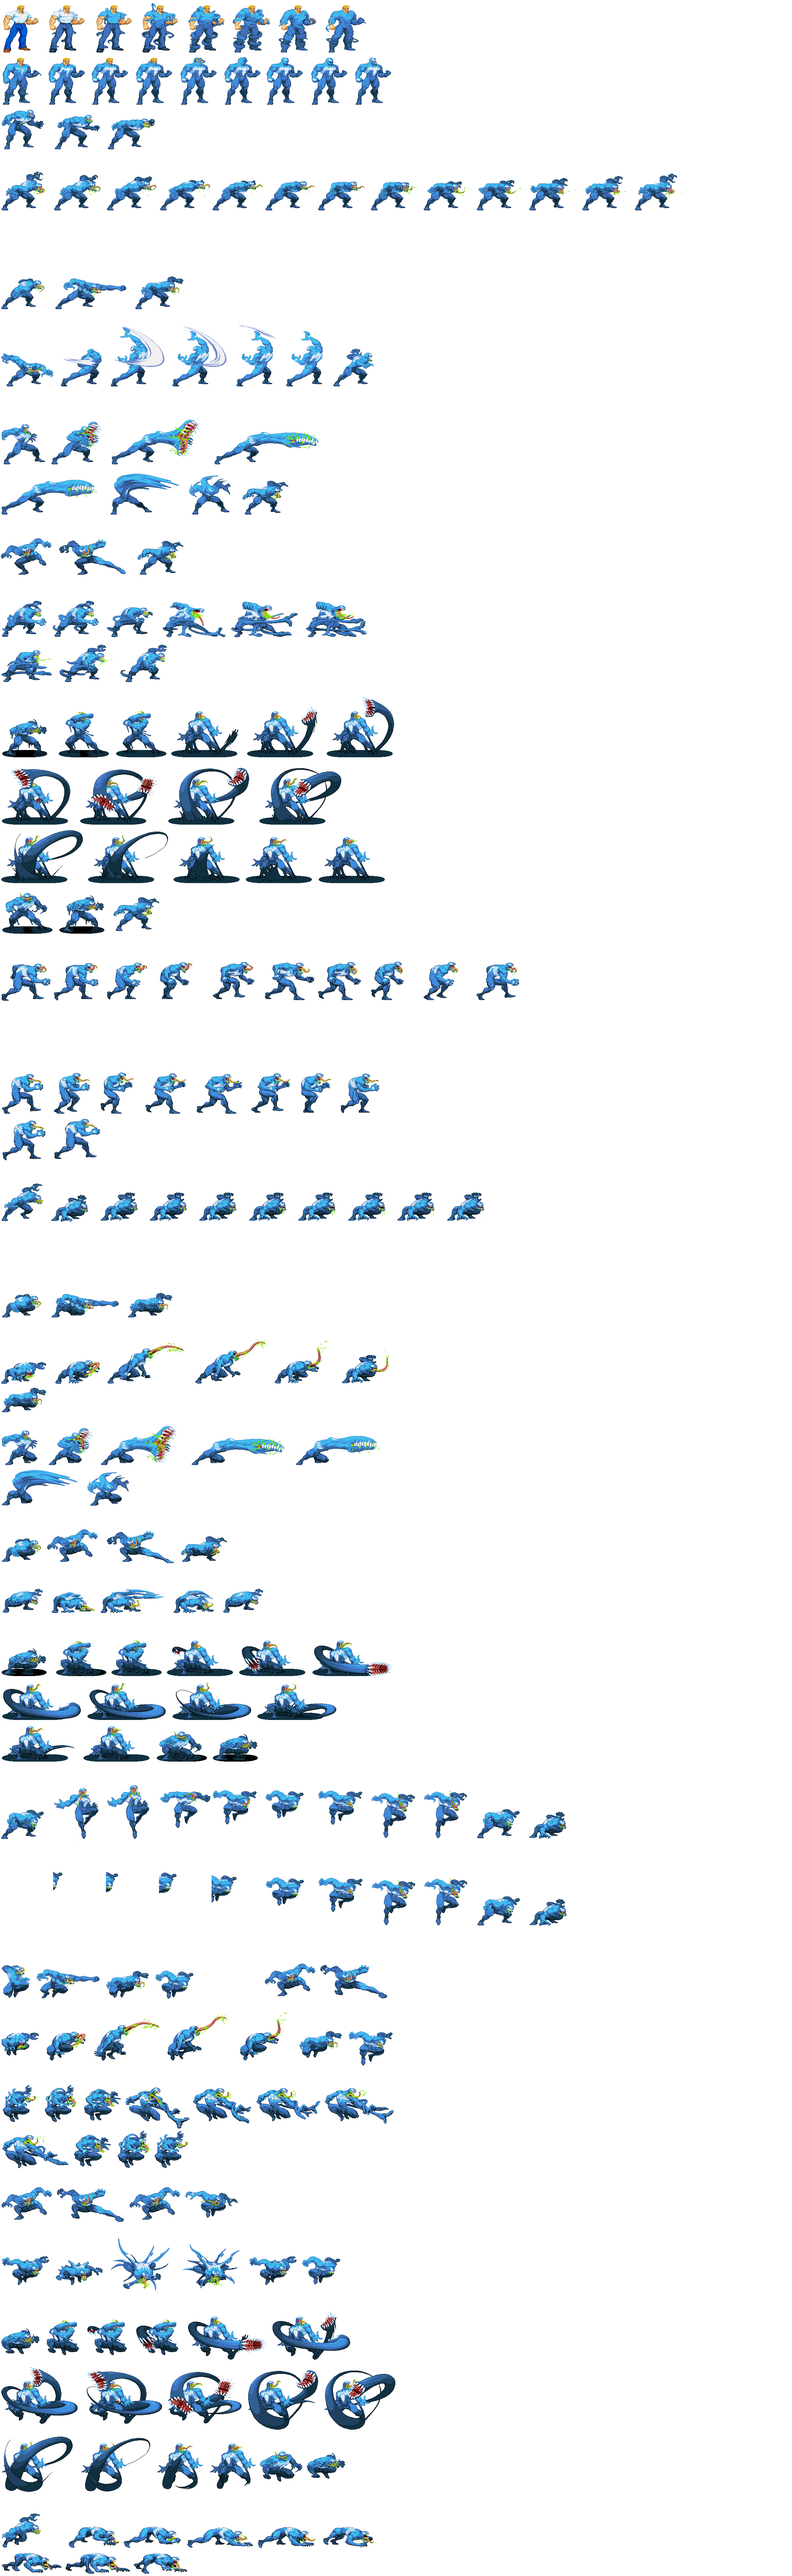
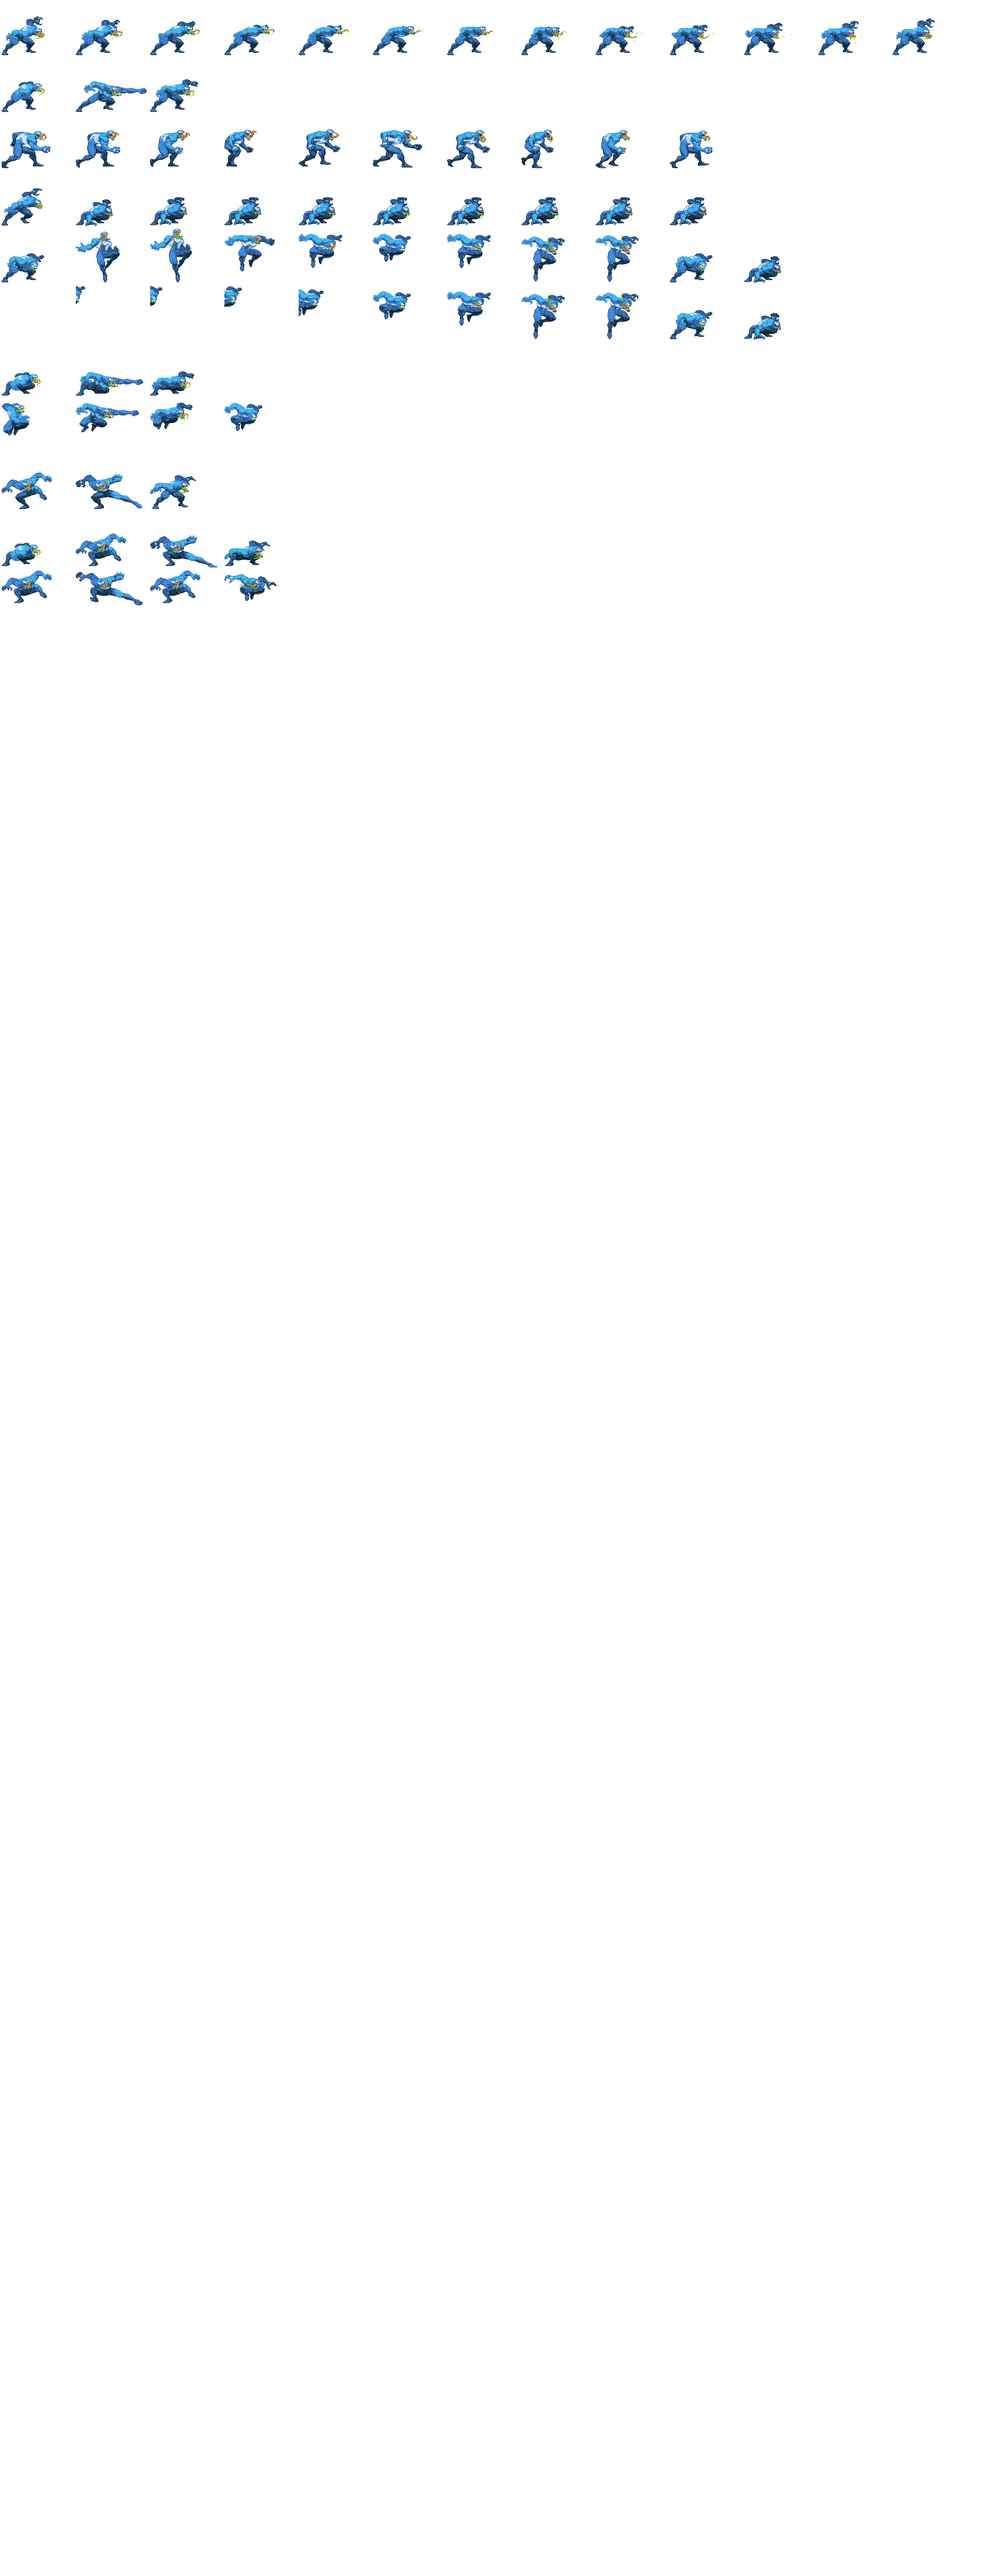
golpes
mejores el sprite de venom, tarde mucho!!
las teclas de golpes son jugador 1:j,k,l,i
jugador 2: z,x,c,s

diff --git a/source/view/SpriteAnimado.cpp b/source/view/SpriteAnimado.cpp
@@ -35,6 +35,18 @@ void SpriteAnimado::cargarAnimaciones(string nombre){
 		Animacion *salto = new Animacion("salto",8,0,590,125,140,7);
 		Animacion *agacharse = new Animacion("agacharse",3,0,740,100,105,4);
 		Animacion *cambioEntrada = new Animacion("cambioEntrada",7,125,420,125,158,2);
+		Animacion *golpeS=new Animacion("golpeS",3,0,740,100,105,4);//golpe simple
+		Animacion *patadaS=new Animacion("patadaS",3,0,740,100,105,4);//patada simple
+		Animacion *golpeAS=new Animacion("golpeAS",3,0,740,100,105,4);//golpe agachado simple
+		Animacion *patadaAS=new Animacion("patadaAS",3,0,740,100,105,4);//patada agachado simple
+		Animacion *golpeSS=new Animacion("golpeSS",3,0,740,100,105,4);//golpe saltando simple
+		Animacion *patadaSS=new Animacion("patadaSS",3,0,740,100,105,4);//patada saltando simple
+		animaciones.push_back(golpeS);
+		animaciones.push_back(patadaS);
+		animaciones.push_back(golpeAS);
+		animaciones.push_back(patadaAS);
+		animaciones.push_back(golpeSS);
+		animaciones.push_back(patadaSS);
 		animaciones.push_back(quieto);
 		animaciones.push_back(moverDerecha);
 		animaciones.push_back(moverIzquierda);
@@ -50,6 +62,18 @@ void SpriteAnimado::cargarAnimaciones(string nombre){
 		Animacion *salto = new Animacion("salto",14,0,473,100,135,3);
 		Animacion *agacharse = new Animacion("agacharse",13,0,1180,110,90,4);
 		Animacion *cambioEntrada = new Animacion("cambioEntrada",14,0,227,110,133,2);
+		Animacion *golpeS=new Animacion("golpeS",13,0,1180,110,90,4);//golpe simple
+		Animacion *patadaS=new Animacion("patadaS",13,0,1180,110,90,4);//patada simple
+		Animacion *golpeAS=new Animacion("golpeAS",13,0,1180,110,90,4);//golpe agachado simple
+		Animacion *patadaAS=new Animacion("patadaAS",13,0,1180,110,90,4);//patada agachado simple
+		Animacion *golpeSS=new Animacion("golpeSS",13,0,1180,110,90,4);//golpe saltando simple
+		Animacion *patadaSS=new Animacion("patadaSS",13,0,1180,110,90,4);//patada saltando simple
+		animaciones.push_back(golpeS);
+		animaciones.push_back(patadaS);
+		animaciones.push_back(golpeAS);
+		animaciones.push_back(patadaAS);
+		animaciones.push_back(golpeSS);
+		animaciones.push_back(patadaSS);
 		animaciones.push_back(quieto);
 		animaciones.push_back(moverDerecha);
 		animaciones.push_back(moverIzquierda);
@@ -60,12 +84,24 @@ void SpriteAnimado::cargarAnimaciones(string nombre){
 		return;
 	}
 	else if(nombre=="Venom" ){
-		Animacion *quieto = new Animacion("quieto",13,0,519,160,123,5);
-		Animacion *moverDerecha = new Animacion("movDerecha",10,0,2905,160,130,4);
-		Animacion *moverIzquierda = new Animacion("movIzquierda",10,0,2905,160,130,4);
-		Animacion *salto = new Animacion("salto",11,0,5408,160,172,6);
-		Animacion *agacharse = new Animacion("agacharse",10,0,3580,150,125,2);
-		Animacion *cambioEntrada = new Animacion("cambioEntrada",11,0,5668,160,162,2);
+		Animacion *quieto = new Animacion("quieto",13,0,0,225,172,5);
+		Animacion *moverDerecha = new Animacion("movDerecha",10,0,344,225,172,4);
+		Animacion *moverIzquierda = new Animacion("movIzquierda",10,0,344,225,172,4);
+		Animacion *salto = new Animacion("salto",11,0,688,225,172,6);
+		Animacion *agacharse = new Animacion("agacharse",10,0,516,225,172,2);
+		Animacion *cambioEntrada = new Animacion("cambioEntrada",11,0,860,225,172,2);
+		Animacion *golpeS=new Animacion("golpeS",3,0,172,225,172,6);//golpe simple
+		Animacion *patadaS=new Animacion("patadaS",3,0,1376,225,172,6);//patada simple
+		Animacion *golpeAS=new Animacion("golpeAS",3,0,1032,225,172,2);//golpe agachado simple
+		Animacion *patadaAS=new Animacion("patadaAS",4,0,1548,225,172,2);//patada agachado simple
+		Animacion *golpeSS=new Animacion("golpeSS",3,0,1204,225,172,2);//golpe saltando simple
+		Animacion *patadaSS=new Animacion("patadaSS",4,0,1720,225,172,2);//patada saltando simple
+		animaciones.push_back(golpeS);
+		animaciones.push_back(patadaS);
+		animaciones.push_back(golpeAS);
+		animaciones.push_back(patadaAS);
+		animaciones.push_back(golpeSS);
+		animaciones.push_back(patadaSS);
 		animaciones.push_back(quieto);
 		animaciones.push_back(moverDerecha);
 		animaciones.push_back(moverIzquierda);
@@ -82,6 +118,18 @@ void SpriteAnimado::cargarAnimaciones(string nombre){
 		Animacion *salto = new Animacion("salto",13,0,1572,100,152,10);
 		Animacion *agacharse = new Animacion("agacharse",10,0,965,100,80,2);
 		Animacion *cambioEntrada = new Animacion("cambioEntrada",13,0,1572,100,152,10);
+		Animacion *golpeS=new Animacion("golpeS",10,0,965,100,80,2);//golpe simple
+		Animacion *patadaS=new Animacion("patadaS",10,0,965,100,80,2);//patada simple
+		Animacion *golpeAS=new Animacion("golpeAS",10,0,965,100,80,2);//golpe agachado simple
+		Animacion *patadaAS=new Animacion("patadaAS",10,0,965,100,80,2);//patada agachado simple
+		Animacion *golpeSS=new Animacion("golpeSS",10,0,965,100,80,2);//golpe saltando simple
+		Animacion *patadaSS=new Animacion("patadaSS",10,0,965,100,80,2);//patada saltando simple
+		animaciones.push_back(golpeS);
+		animaciones.push_back(patadaS);
+		animaciones.push_back(golpeAS);
+		animaciones.push_back(patadaAS);
+		animaciones.push_back(golpeSS);
+		animaciones.push_back(patadaSS);
 		animaciones.push_back(quieto);
 		animaciones.push_back(moverDerecha);
 		animaciones.push_back(moverIzquierda);
@@ -98,6 +146,18 @@ void SpriteAnimado::cargarAnimaciones(string nombre){
 		Animacion *salto = new Animacion("salto",10,0,580,170,215,6);
 		Animacion *agacharse = new Animacion("agacharse",5,0,450,170,123,4);
 		Animacion *cambioEntrada = new Animacion("cambioEntrada",8,0,1119,170,248,3);
+		Animacion *golpeS=new Animacion("golpeS",5,0,450,170,123,4);//golpe simple
+		Animacion *patadaS=new Animacion("patadaS",5,0,450,170,123,4);//patada simple
+		Animacion *golpeAS=new Animacion("golpeAS",5,0,450,170,123,4);//golpe agachado simple
+		Animacion *patadaAS=new Animacion("patadaAS",5,0,450,170,123,4);//patada agachado simple
+		Animacion *golpeSS=new Animacion("golpeSS",5,0,450,170,123,4);//golpe saltando simple
+		Animacion *patadaSS=new Animacion("patadaSS",5,0,450,170,123,4);//patada saltando simple
+		animaciones.push_back(golpeS);
+		animaciones.push_back(patadaS);
+		animaciones.push_back(golpeAS);
+		animaciones.push_back(patadaAS);
+		animaciones.push_back(golpeSS);
+		animaciones.push_back(patadaSS);
 		animaciones.push_back(quieto);
 		animaciones.push_back(moverDerecha);
 		animaciones.push_back(moverIzquierda);
@@ -114,6 +174,18 @@ void SpriteAnimado::cargarAnimaciones(string nombre){
 		Animacion *cambioEntrada = new Animacion("cambioEntrada",1,0,0,600,600,4);
 		Animacion *salto = new Animacion("salto",1,0,0,600,600,10);
 		Animacion *agacharse = new Animacion("agacharse",1,0,0,600,600,2);
+		Animacion *golpeS=new Animacion("golpeS",1,0,0,600,600,2);//golpe simple
+		Animacion *patadaS=new Animacion("patadaS",1,0,0,600,600,2);//patada simple
+		Animacion *golpeAS=new Animacion("golpeAS",1,0,0,600,600,2);//golpe agachado simple
+		Animacion *patadaAS=new Animacion("patadaAS",1,0,0,600,600,2);//patada agachado simple
+		Animacion *golpeSS=new Animacion("golpeSS",1,0,0,600,600,2);//golpe saltando simple
+		Animacion *patadaSS=new Animacion("patadaSS",1,0,0,600,600,2);//patada saltando simple
+		animaciones.push_back(golpeS);
+		animaciones.push_back(patadaS);
+		animaciones.push_back(golpeAS);
+		animaciones.push_back(patadaAS);
+		animaciones.push_back(golpeSS);
+		animaciones.push_back(patadaSS);
 		animaciones.push_back(quieto);
 		animaciones.push_back(moverDerecha);
 		animaciones.push_back(moverIzquierda);

diff --git a/source/model/Juego.cpp b/source/model/Juego.cpp
@@ -225,7 +225,19 @@ void Juego::teclear(SDL_Event evento, int idCliente){
 				personaje1->saltar();
 				controladorLogger->registrarEvento("DEBUG", "Juego::Jugador 1 salta");
 			}
-
+			if(teclado->sePresionoUnaTecla(SDL_SCANCODE_J)){
+				//controladorLogger->registrarEvento("DEBUG", "Juego::Jugador 1 salta");
+				personaje1->golpe("golpeS");
+			}
+			if(teclado->sePresionoUnaTecla(SDL_SCANCODE_K)){
+				personaje1->golpe("patadaS");
+			}
+			if(teclado->sePresionoUnaTecla(SDL_SCANCODE_L)){
+				//cout<<"golpe fuerte"<<endl;
+			}
+			if(teclado->sePresionoUnaTecla(SDL_SCANCODE_I)){
+				//cout<<"patada fuerte"<<endl;
+			}
 			if(teclado->seEstaPresionandoUnaTecla(SDL_SCANCODE_S)){
 				personaje1->agacharse();
 				controladorLogger->registrarEvento("DEBUG", "Juego::Jugador 1 agachado");
@@ -271,6 +283,20 @@ void Juego::teclear(SDL_Event evento, int idCliente){
 				if(teclado->seEstaPresionandoUnaTecla(SDL_SCANCODE_DOWN)){
 					personaje2->agacharse();
 					controladorLogger->registrarEvento("DEBUG", "Juego::Jugador 2 agachado");
+				}
+				if(teclado->sePresionoUnaTecla(SDL_SCANCODE_Z)){
+					/*personaje1->saltar();
+					controladorLogger->registrarEvento("DEBUG", "Juego::Jugador 1 salta");*/
+					personaje2->golpe("golpeS");
+				}
+				if(teclado->sePresionoUnaTecla(SDL_SCANCODE_X)){
+					personaje2->golpe("patadaS");
+				}
+				if(teclado->sePresionoUnaTecla(SDL_SCANCODE_C)){
+					//cout<<"golpe fuerte"<<endl;
+				}
+				if(teclado->sePresionoUnaTecla(SDL_SCANCODE_S)){
+					//cout<<"patada fuerte"<<endl;
 				}
 
 				if(teclado->seSoltoUnaTecla(SDL_SCANCODE_DOWN) || teclado->seSoltoUnaTecla(SDL_SCANCODE_LEFT) || teclado->seSoltoUnaTecla(SDL_SCANCODE_RIGHT)){

diff --git a/source/model/Personaje.cpp b/source/model/Personaje.cpp
@@ -108,6 +108,9 @@ void Personaje::correrADerecha(){
 			return;
 	this->posx=this->posx+velocidad;
 }
+void Personaje::golpe(string tipoDeGolpe){
+	this->spriteAnimado->iniciarAnimacion(tipoDeGolpe);
+}
 
 void Personaje::agacharse(){
 	if(saltando ) return;

diff --git a/headers/model/Personaje.hpp b/headers/model/Personaje.hpp
@@ -28,6 +28,7 @@ class Personaje{
 		void correrAIzquierda();
 		void saltar();
 		void cambio();
+		void golpe(string tipoDeGolpe);
 		void agacharse();
 		void cambiarAnimacion(string nombre);
 		void Flip();
